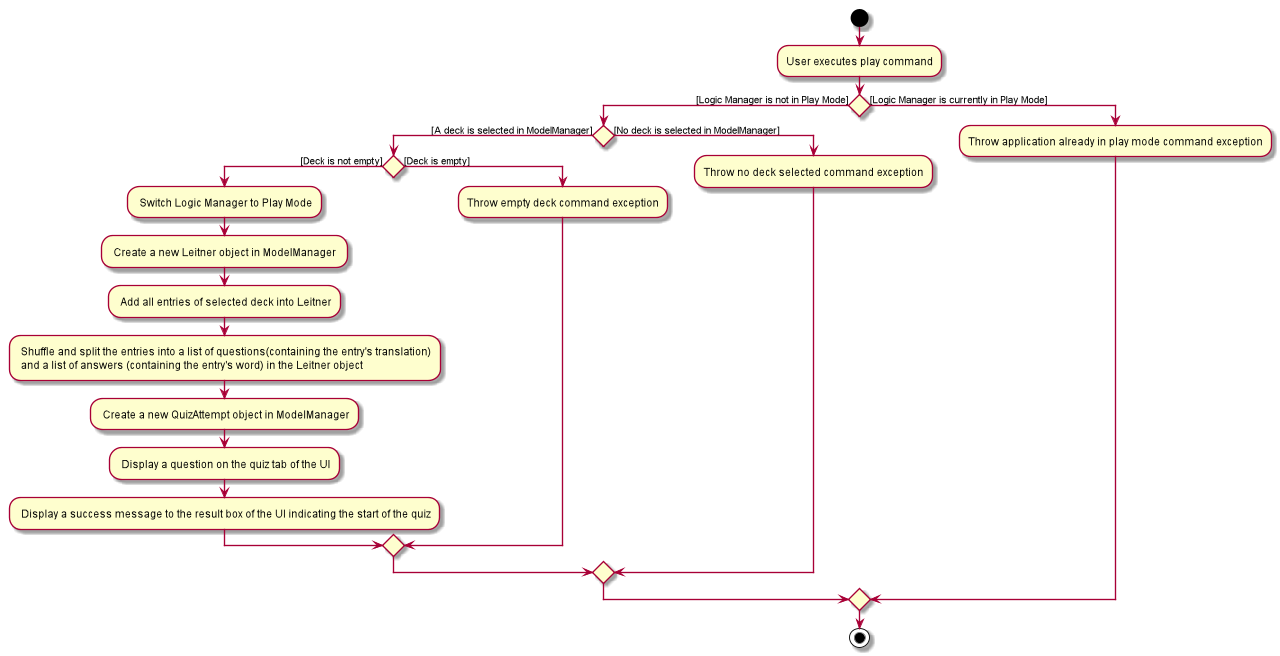
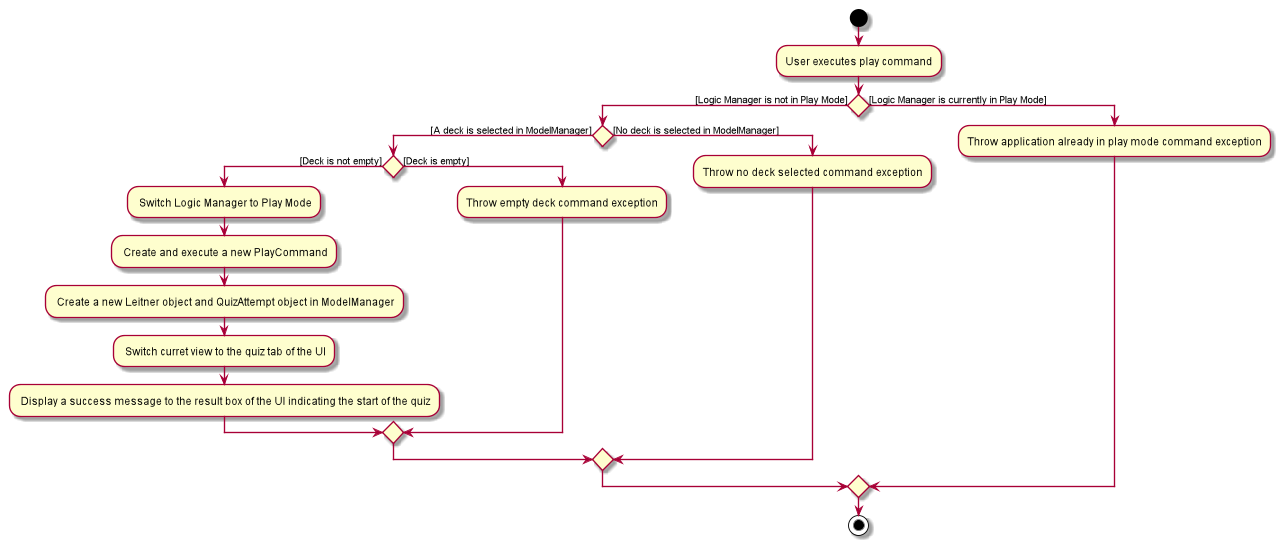
Update chapter 4.2.1

Changed region(s): [[0.0, 0.0312, 1.0, 1.0]]

diff --git a/docs/DeveloperGuide.md b/docs/DeveloperGuide.md
@@ -422,24 +422,52 @@ If `isPlayMode` is set to `false`, `Logic Manager` will be in Command Mode and w
 
 Do note that in Play Mode, all commands are treated as valid unless the command word is `/play`.
 
-The figure below is an activity diagram that describes what is explained in this chapter.
+The figure below is an activity diagram that provides a generalized overview on the behavior of `Logic Manager` when a user
+enters any command.
 
 ![GeneralizedCommand](images/GeneralizedCommandActivityDiagram.png)
 <div align="center"><sup style="font-size:100%"><i>Figure X</i></sup></div><br>
 
-The left rake symbol in the above figure can be extended to any Play Mode command such as [the answer command](#413-select-deck) (beside the `PlayCommand`).
+The left rake symbol in the above figure can refer to any Play Mode command such as [the answer command](#413-select-deck) (beside the `PlayCommand`)
+while the right rake symbol can refer to any Command Mode command such as [the select command](#413-select-deck)
 
-The right rake symbol can be extended to any Command Mode command such as [the select command](#413-select-deck)
-
-The figure below is an activity diagram that describes the behavior of `LogicManager` when the user
- enters a `PlayCommand`. The behavior for `StopCommand` is similar to the `PlayCommand`.
-
-![PlayCommand](images/PlayActivityDiagram.png)
-<div align="center"><sup style="font-size:100%"><i>Figure X</i></sup></div><br>
+To switch into Play Mode, the user can enter a `PlayCommand`. 
 
 Below is a sequence diagram for the `PlayCommand`.
-
 ![AnswerCommandSequenceDiagram](images/AnswerCommandSequenceDiagram.png)
+<div align="center"><sup style="font-size:100%"><i>Figure X</i></sup></div><br>
+
+From the above diagram, entering a `Play Command` will result in the follow steps:
+
+Step 1: User enters `/play`
+
+Step 2. The input is saved as a `String` and passed into `Logic Manager`.
+
+Step 3. The boolean field `isPlayMode` in `Logic Manager` becomes `true`.
+
+Step 4. `Logic Manager` passes the `String` to `PlayModeParser`
+
+Step 5. A `PlayCommandParser` is created.
+
+Step 6. The `String` is passed from `PlayModeParser` to `PlayCommandParser` to parse.
+
+Step 7. `PlayCommandParser` creates a new `PlayCommand` object stored as a variable `args`.
+
+Step 8. `args` is then pass back to `Logic Manager` via `PlayCommandParser` and `PlayModeParser`. `PlayCommandParser`
+is then deleted.
+
+Step 9. `Logic Manager` executes the `args` command.
+
+Step 10. The `args` command invokes `newGame()` in `Model`.
+
+Step 11. `Model` creates a new [`Leitner` object and `QuizAttempt` object](#link)
+
+Step 12. The `args` command also invokes the `Model` object to set the current view  to `QUIZ_VIEW`. 
+
+Step 13. A `CommandResult` object is created and returned to `Logic Manager` to signify the end of the command execution.
+
+The activity diagram below summarizes the high level behavior of `LogicManager` and `Model` when the user enters a `PlayCommand`. 
+![PlayCommand](images/PlayActivityDiagram.png)
 <div align="center"><sup style="font-size:100%"><i>Figure X</i></sup></div><br>
 
 #### 4.2.2 Play Mode Commands (Gabriel)
